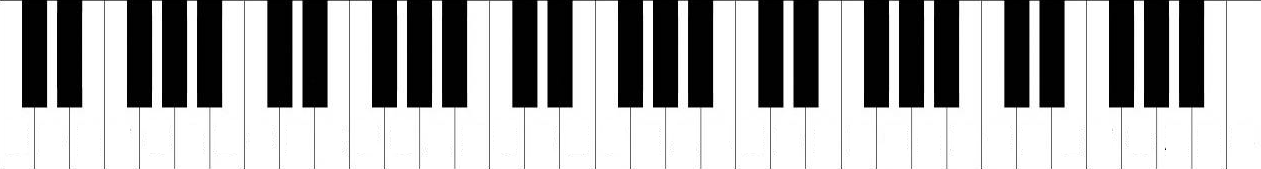
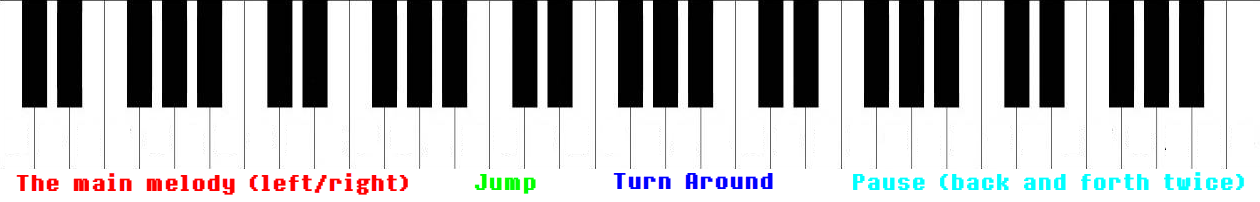
add reset button, key to keyboard

diff --git a/main.py b/main.py
@@ -91,13 +91,14 @@ t.daemon = True
 t.start()
 
 disp_width = 1261
-disp_height = 169
+disp_height = 200
 
 keyboardDisp = pygame.display.set_mode((disp_width, disp_height))
 pygame.display.set_caption("Super MIDIo Bros.")
 keyboardImg = pygame.image.load("res/keyboard.png")
 
 red = (255, 0, 0)
+lightred = (255, 147, 140)
 green = (0, 255, 0)
 blue = (0, 0, 255)
 cyan = (0, 255, 255)
@@ -156,10 +157,8 @@ while True:
     if currentNote == sequences.melody1_1[melodyPosition]:
         if goingRight:
             q.put("right")
-            print("right")
         else:
             q.put("left")
-            print("left")
         melodyPosition += 1
         if melodyPosition == len(sequences.melody1_1):
             melodyPosition = 0
@@ -169,14 +168,12 @@ while True:
             currentNote = inputs.getInput()
         if currentNote == sequences.jump[1]:
             q.put("jump")
-            print("jump!")
     elif currentNote == sequences.reverse[0]:
         currentNote = inputs.getInput()
         while currentNote == 0:
             currentNote = inputs.getInput()
         if currentNote == sequences.reverse[1]:
             goingRight = not goingRight
-            print("reverse!")
     elif currentNote == sequences.pause[0]:
         currentNote = 0
         pauseIndex = 1
@@ -190,10 +187,10 @@ while True:
                 break
         if pauseIndex == len(sequences.pause):
             q.put("pause")
-            print("pause!")
+    elif currentNote == 37:
+        melodyPosition = 0
     elif currentNote == 36:
         q.put("end")
-        print("end")
         break
 q.join()
 sys.exit()
